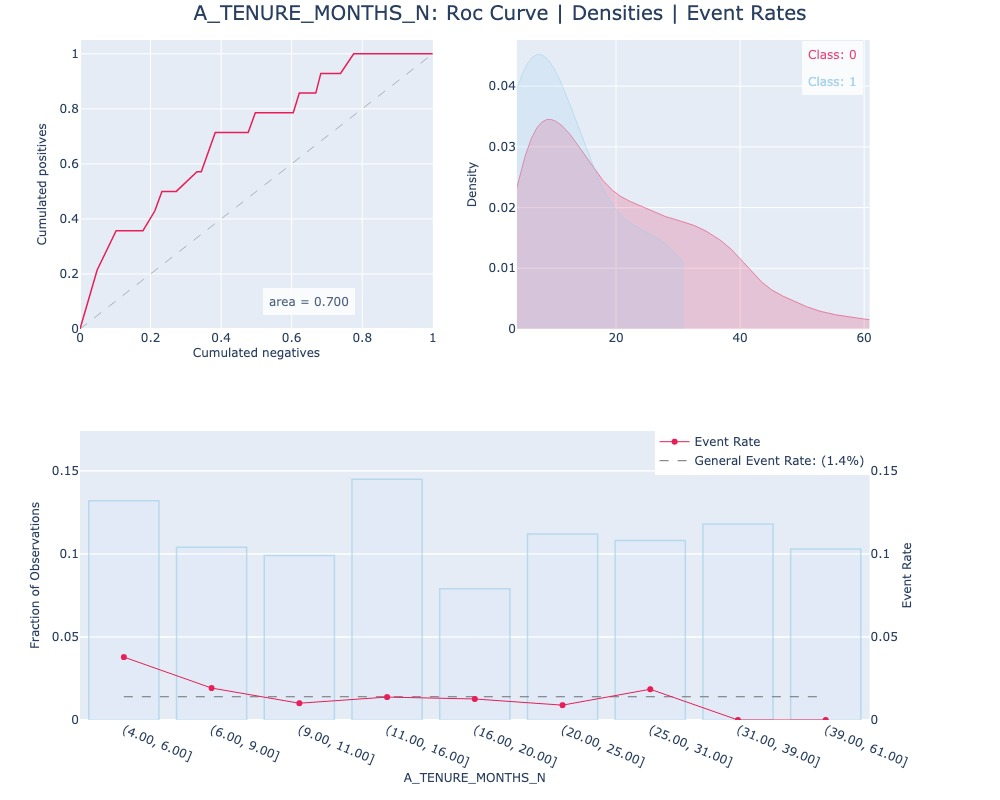
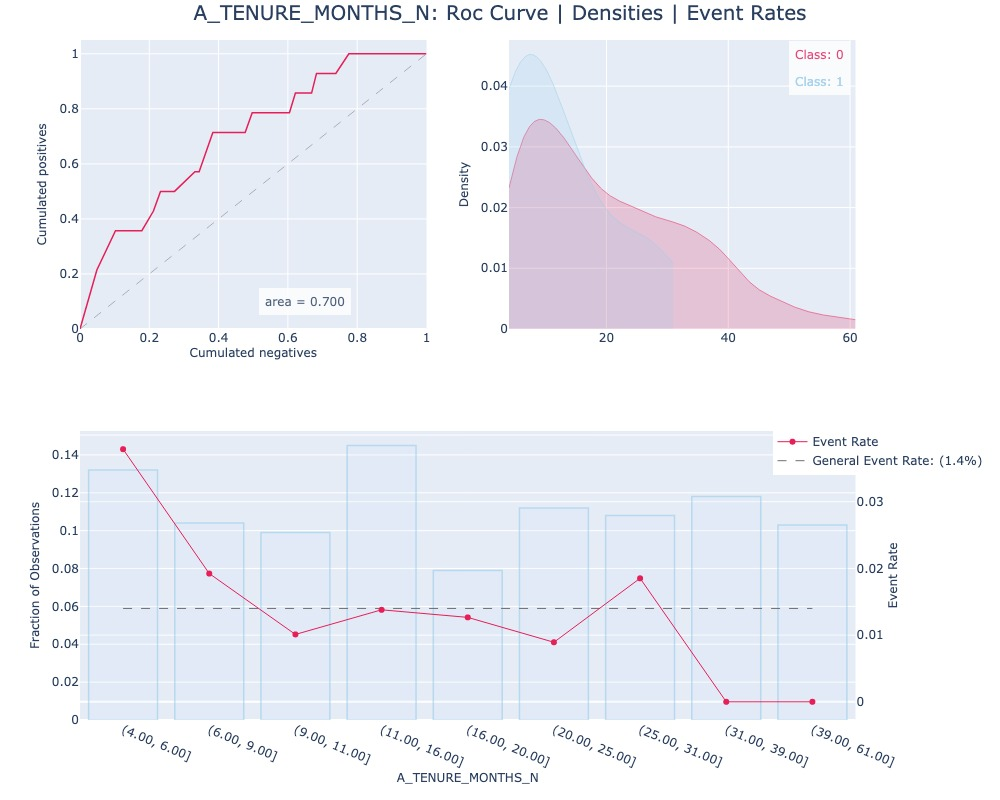
finished bank branch

diff --git a/plottah/plots/BinEventRatePlot.py b/plottah/plots/BinEventRatePlot.py
@@ -70,6 +70,7 @@ class BinEventRatePlot(PlotProtocol):
                 method=method,
             )
         )
+        print(self.bins)
         # convert type to list
         self.bins = list(self.bins)
 
@@ -97,6 +98,7 @@ class BinEventRatePlot(PlotProtocol):
 
         # Create plot labels: [(4, 6), (6, 10), ...]
         self.labels = get_labels_from_bins(self.bins)
+        print(self.labels)
 
         ## CLIPPING
 
@@ -213,7 +215,7 @@ class BinEventRatePlot(PlotProtocol):
         return dict(
             title_text=f"Fraction of Observations",
             title_font={"size": 12},
-            range=[0, 1.2 * self.df_binned[f"{self.feature_col}_len"].max()],
+            # range=[0, 1.2 * self.df_binned[f"{self.feature_col}_len"].max()],
             row=row,
             col=col,
             title_standoff=5,  # decrease space between title and plot

diff --git a/plottah/utils.py b/plottah/utils.py
@@ -140,8 +140,13 @@ def get_labels_from_bins(bins: list) -> list:
 
     example: [0, 1, 2] -> ['(0.00, 1.00]', '(1.00, 2.00]']
     """
+
+    precision = 2
+    while len(bins) > len(np.unique(np.round(bins, precision))):
+        precision += 1
+
     labels = [
-        f'({"{:,.2f}".format(bins[i])}, {"{:,.2f}".format(bins[i+1])}]'
+        f'({"{:,.{prec}f}".format(bins[i], prec=precision)}, {"{:,.{prec}f}".format(bins[i+1], prec=precision)}]'
         for i in range(len(bins) - 1)
     ]
     return labels

diff --git a/plottah/config.py b/plottah/config.py
@@ -95,8 +95,8 @@ class Settings(BaseModel):
         return v
 
 
-config = parse_from_yaml(str(ROOT_DIR / "config_bank.yaml"))
-# config = parse_from_yaml(str(ROOT_DIR / "config.yaml"))
+# config = parse_from_yaml(str(ROOT_DIR / "config_bank.yaml"))
+config = parse_from_yaml(str(ROOT_DIR / "config.yaml"))
 settings = Settings(**config)
 
 if __name__ == "__main__":

diff --git a/plottah/plot_handler/PlotHandler.py b/plottah/plot_handler/PlotHandler.py
@@ -109,7 +109,7 @@ class PlotHandler:
             height=800,
             legend=dict(
                 # the below if through experimentation
-                x=0.94,
+                x=1.1,
                 y=0.36 + (1 - self.legend_xref) * 0.57,
                 xanchor="right",
                 yanchor="bottom",
